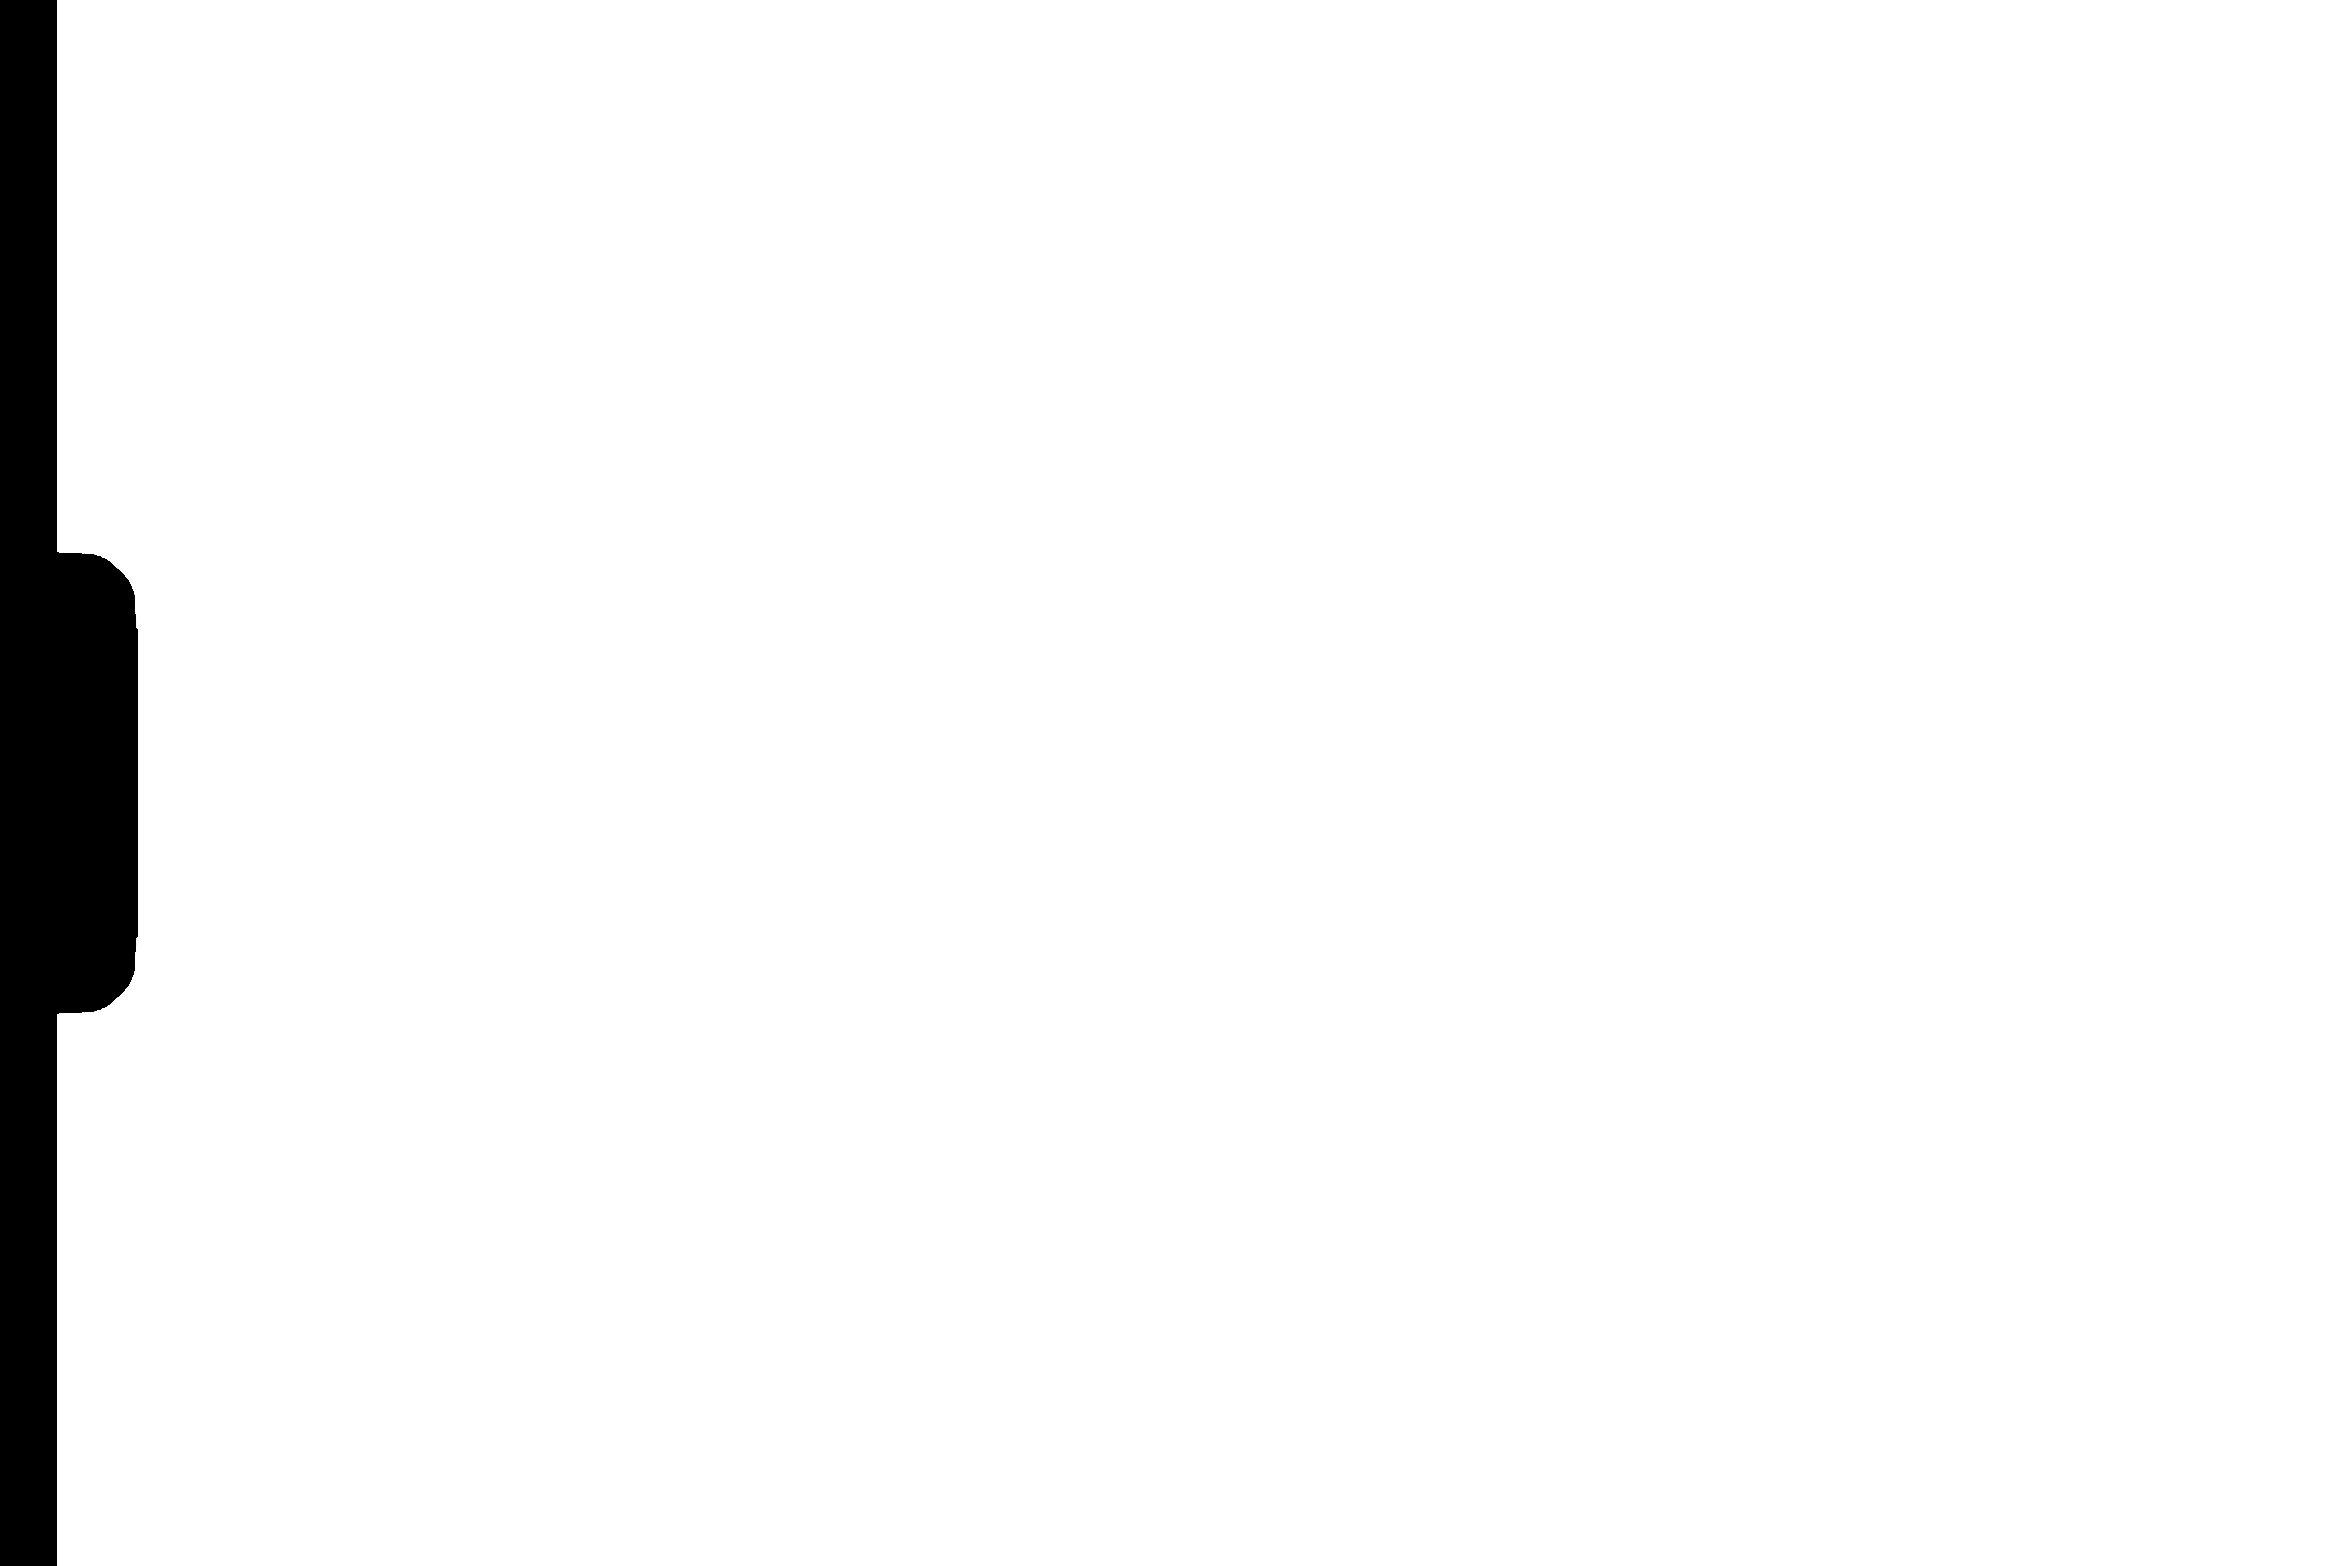
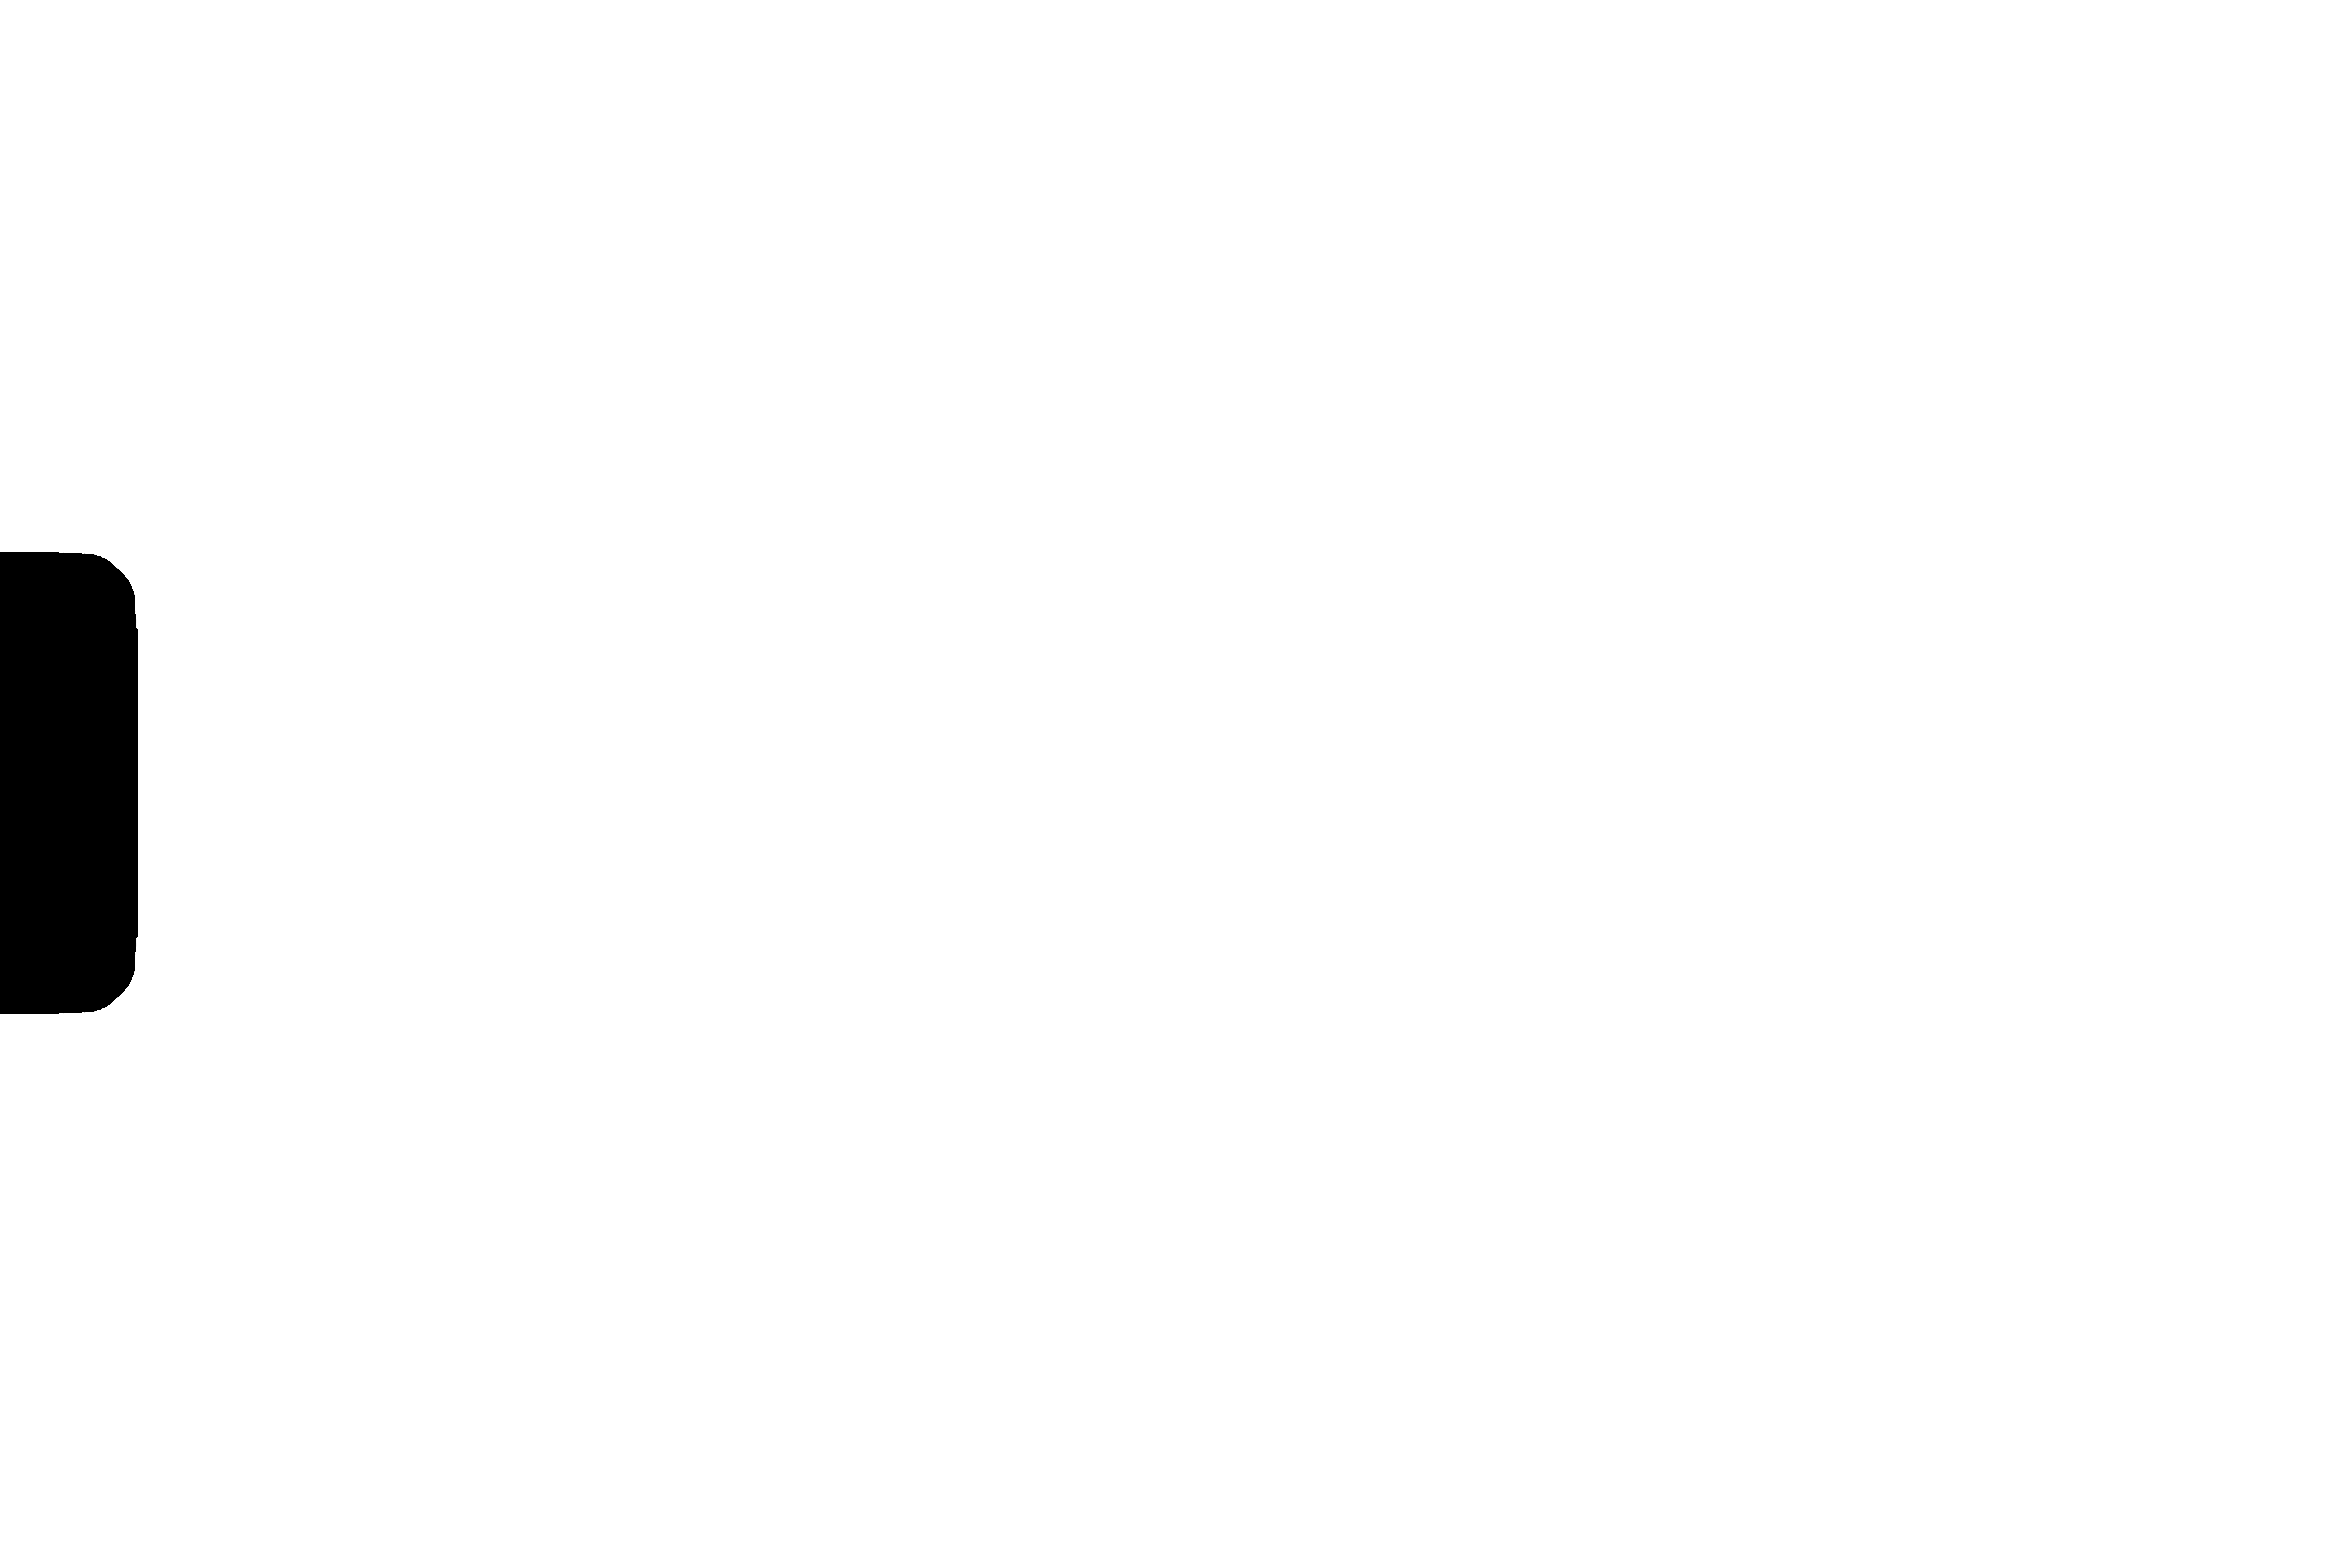
Updated frame

Changed region(s): [[0.0, 0.6437, 0.0311, 1.0], [0.0, 0.0, 0.0311, 0.3678]]

diff --git a/Python/ImageRegistrationCropping.py b/Python/ImageRegistrationCropping.py
@@ -197,7 +197,14 @@ def scanImages(files:List, maximum_number_of_samples:int=32):
 
     return average_sample_count,average_width,average_height,average_area
 
+min_x=999999
+max_x=0
+min_y=999999
+max_y=0
+
 def processImage(original_image, output_w,output_h, average_width, average_height, average_area):
+    global min_x,max_x,min_y,max_y
+
     Detect=True
     manual_adjustment=False
     while True:        
@@ -214,6 +221,10 @@ def processImage(original_image, output_w,output_h, average_width, average_heigh
 
         # draw actual detected sproket hole in grey
         #cv.rectangle(image, top_left_of_sproket_hole, bottom_right_of_sproket_hole, (100,100,100), 3)
+
+        # Draw the box of recorded allowable TOP RIGHT positions (just for fun)
+        if max_x>0:
+            cv.rectangle(image, (min_x,min_y), (max_x,max_y), (100,100,100), 3)
 
         #Draw "average" size rectangle in red, based on detected hole
         tl=(bottom_right_of_sproket_hole[0]-average_width,top_left_of_sproket_hole[1])
@@ -236,20 +247,24 @@ def processImage(original_image, output_w,output_h, average_width, average_heigh
         frame_br=(frame_tl[0]+output_w,frame_tl[1]+output_h)
         cv.rectangle(image, frame_tl, frame_br, (0,0,0), 20)
 
-        print(tr)
+        # Highlight top right
+        cv.circle(image, (int(tr[0]), int(tr[1])), 8, (0, 0, 100), -1)
 
         if frame_tl[1]<0 or frame_tl[0]<0:
             print("frame_tl",frame_tl)
             manual_adjustment=True
-        elif number_of_contours>4:
-            print("Contours",number_of_contours)
+        #elif number_of_contours>4:
+        #    print("Contours",number_of_contours)
+        #    manual_adjustment=True
+        elif tr[0]<min_x or tr[0]>max_x or tr[1]<min_y or tr[1]>max_y:
+            print("Outside accepted bounding box")
             manual_adjustment=True
-        elif height_of_sproket_hole<(average_height-padding) or height_of_sproket_hole>(average_height+padding):
-            print("Sproket Height wrong!!",height_of_sproket_hole)
-            manual_adjustment=True
-        elif width_of_sproket_hole<(average_width-padding) or width_of_sproket_hole>(average_width+padding):
-            print("Sproket width wrong!!",width_of_sproket_hole)
-            manual_adjustment=True
+        #elif height_of_sproket_hole<(average_height-padding) or height_of_sproket_hole>(average_height+padding):
+        #    print("Sproket Height wrong!!",height_of_sproket_hole)
+        #    manual_adjustment=True
+        #elif width_of_sproket_hole<(average_width-padding) or width_of_sproket_hole>(average_width+padding):
+        #    print("Sproket width wrong!!",width_of_sproket_hole)
+        #    manual_adjustment=True
         #elif top_left_of_sproket_hole[1]<590:
         #    print("top_left_of_sproket_hole Y value low")
         #    manual_adjustment=True
@@ -320,6 +335,14 @@ def processImage(original_image, output_w,output_h, average_width, average_heigh
                 output_image[offset_y:offset_y+h,0:w]=cropped
                 return output_image            
 
+            # Update our acceptable min/max ranges
+            min_x= min(min_x,tr[0])
+            max_x= max(max_x,tr[0])
+
+            min_y= min(min_y,tr[1])
+            max_y= max(max_y,tr[1])
+
+            print(min_x,min_y,max_x,max_y)
 
             return untouched_image[frame_tl[1]:frame_br[1],frame_tl[0]:frame_br[0]]
 
